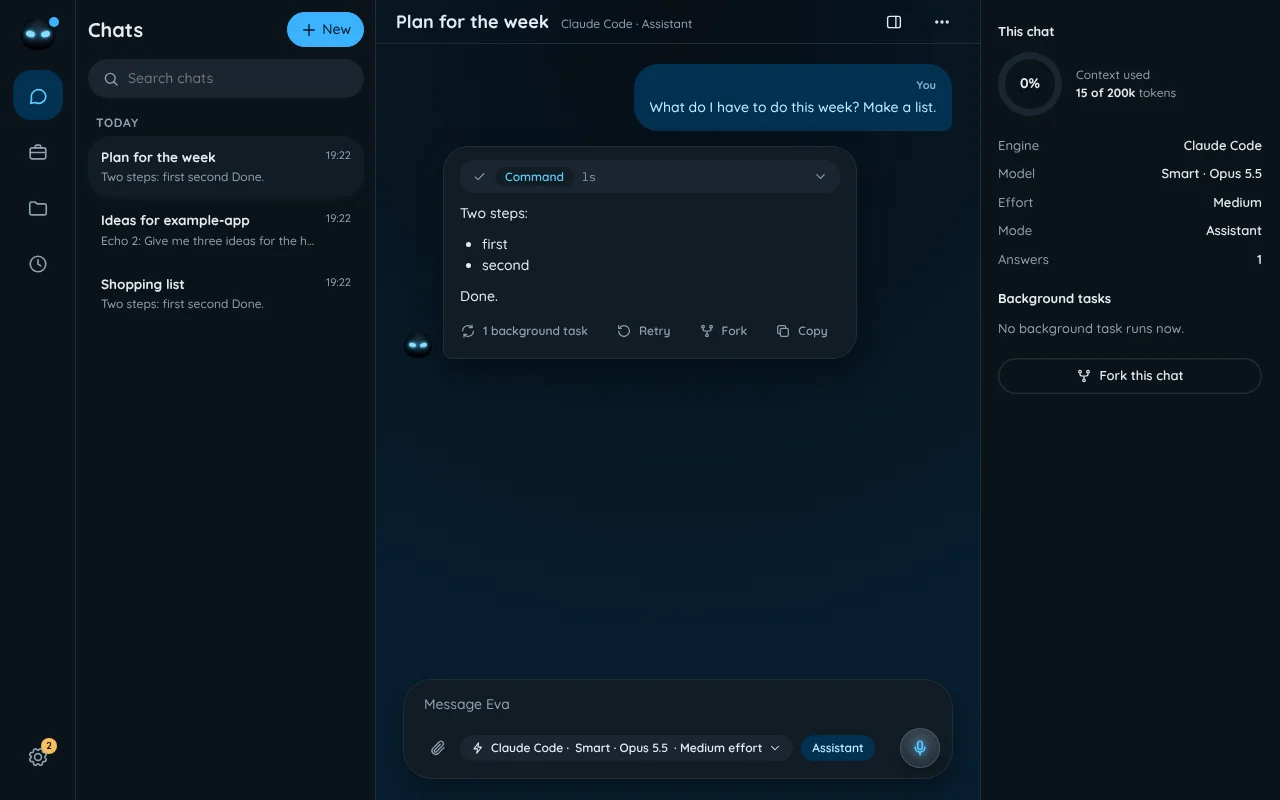
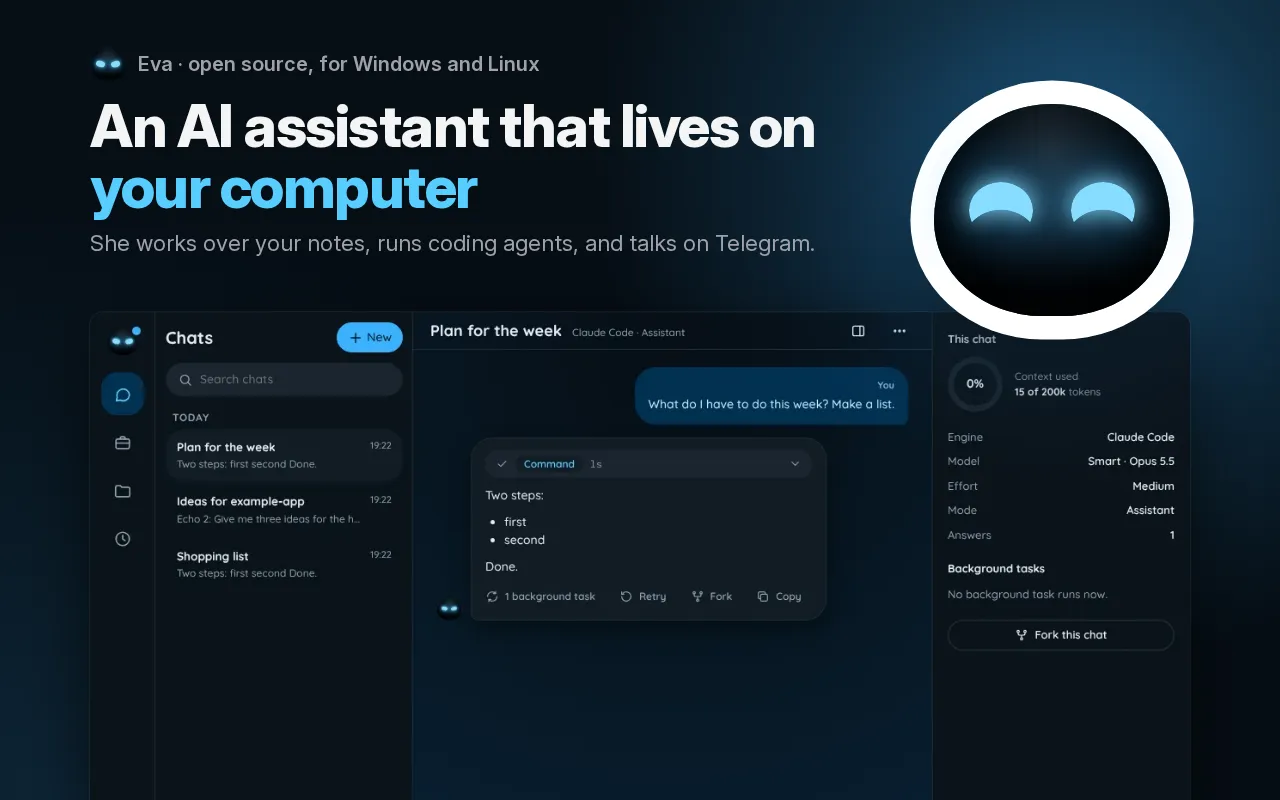
feat: give the Eva card a headline image with her face
The old card image was a plain screenshot of Eva's chat page. It had no
headline, and Eva's face was a few pixels in a corner. The new image
follows the form of the pskill and Work Board cards: a headline and one
line over a framed screenshot. Eva's face, the EVE visor with happy eyes
in a white ring, sits large over the top edge of the frame.

The face and the colours come from the Eva repository: the .mk and
.e-joy rules of visor.css, and the dark tokens of its design guide for
the default seed, EVE blue. The source page is in
resources/images/projects/sources/eva/, with the command that renders it.
The card now stretches its image, as the other headline cards do.

diff --git a/resources/images/projects/sources/eva/index.html b/resources/images/projects/sources/eva/index.html
@@ -1,0 +1,164 @@
+<!doctype html>
+<!--
+  Source of the portfolio image resources/images/projects/eva.webp.
+  Re-render it with:
+    bun scripts/captureProjectImage.js --page resources/images/projects/sources/eva/ --out resources/images/projects/eva.webp --width 1280 --height 800 --quality 80
+  screenshot.webp is docs/design/eve/screenshots/chat-computer-dark.webp from
+  github.com/guplem/eva (the chat page in dark mode, with example data).
+  The face is EVE's visor with the happy face: the .mk and .e-joy rules are a
+  copy of src/frontends/web/visor.css, and the colours are the dark tokens of
+  docs/design/eve/README.md for the default seed, EVE blue #2aa8ff, which is
+  oklch(0.707 0.164 245). The white shell ring is the one of the logo,
+  docs/design/eve/eva.svg.
+-->
+<html lang="en">
+  <head>
+    <meta charset="utf-8" />
+    <title>Eva portfolio image</title>
+    <style>
+      @font-face {
+        font-family: "Inter";
+        src: url("../../../../fonts/InterVariable.woff2") format("woff2");
+        font-weight: 100 900;
+      }
+      :root {
+        --h: 245;
+        --eye: oklch(0.87 0.13 var(--h));
+        --glow: oklch(0.74 0.164 var(--h));
+        --visor: oklch(0.26 0.02 var(--h));
+        --visor2: oklch(0.07 0.01 var(--h));
+        --shell: #ffffff;
+        --accent-ink: oklch(0.82 0.164 var(--h));
+      }
+      * {
+        box-sizing: border-box;
+        margin: 0;
+      }
+      html,
+      body {
+        width: 1280px;
+        height: 800px;
+        overflow: hidden;
+      }
+      body {
+        position: relative;
+        font-family: "Inter", "Segoe UI", sans-serif;
+        color: #f4f4f5;
+        background:
+          radial-gradient(circle at 86% 18%, oklch(0.74 0.164 var(--h) / 0.32), transparent 40%),
+          radial-gradient(circle at 4% 100%, oklch(0.74 0.164 var(--h) / 0.14), transparent 42%),
+          oklch(0.16 0.02 var(--h));
+      }
+      .caption {
+        position: absolute;
+        left: 90px;
+        right: 420px;
+        top: 48px;
+      }
+      .brand {
+        display: flex;
+        align-items: center;
+        gap: 12px;
+        font-size: 20px;
+        font-weight: 600;
+        color: #a1a1aa;
+      }
+      h1 {
+        margin-top: 16px;
+        font-size: 58px;
+        line-height: 1.05;
+        font-weight: 800;
+        letter-spacing: -1.5px;
+      }
+      .accent {
+        color: var(--accent-ink);
+      }
+      .sub {
+        margin-top: 12px;
+        font-size: 22px;
+        color: #a1a1aa;
+      }
+      /* The screenshot is 1280 px wide; the frame shows it at 1100 px. */
+      .shot {
+        position: absolute;
+        left: 50%;
+        bottom: 0;
+        width: 1100px;
+        height: 488px;
+        transform: translateX(-50%);
+        overflow: hidden;
+        border-radius: 14px 14px 0 0;
+        background: #0d1620 url("screenshot.webp") 0 0 / 1100px auto no-repeat;
+        box-shadow:
+          0 30px 80px rgba(0, 0, 0, 0.6),
+          0 0 0 1px rgba(255, 255, 255, 0.08);
+      }
+      /* The face sits over the top edge of the frame. */
+      .mk.hero {
+        position: absolute;
+        right: 110px;
+        top: 104px;
+        z-index: 1;
+        font-size: 236px;
+        box-shadow:
+          0 0 0 0.1em var(--shell),
+          0 0.12em 0.4em 0.02em oklch(0.05 0.02 var(--h) / 0.7),
+          0 0 0.6em 0.05em oklch(0.74 0.164 var(--h) / 0.35);
+      }
+
+      /* From here on: a copy of visor.css (.mk, .mk .eyes, .mk i, .mk.e-joy), with no motion. */
+      .mk {
+        font-size: 36px;
+        width: 1em;
+        height: 0.9em;
+        border-radius: 50% 50% 46% 46% / 55% 55% 45% 45%;
+        background: radial-gradient(ellipse at 50% 22%, var(--visor), var(--visor2) 72%);
+        display: inline-flex;
+        align-items: center;
+        justify-content: center;
+        gap: 0.16em;
+        flex: none;
+        position: relative;
+      }
+      .mk .eyes {
+        display: flex;
+        align-items: center;
+        gap: 0.16em;
+        filter: drop-shadow(0 0 0.05em var(--eye)) drop-shadow(0 0 0.14em var(--glow));
+      }
+      .mk i {
+        display: block;
+        position: relative;
+        width: 0.26em;
+        height: 0.16em;
+        border-radius: 50%;
+        background-color: var(--eye);
+      }
+      .mk i:first-child {
+        rotate: var(--r1, 14deg);
+      }
+      .mk i:last-child {
+        rotate: var(--r2, -14deg);
+      }
+      .mk.e-joy {
+        --r1: 0deg;
+        --r2: 0deg;
+      }
+      .mk.e-joy i {
+        height: 0.24em;
+        width: 0.27em;
+        -webkit-mask: radial-gradient(ellipse 60% 62% at 50% 110%, transparent 98%, #000 100%);
+        mask: radial-gradient(ellipse 60% 62% at 50% 110%, transparent 98%, #000 100%);
+      }
+    </style>
+  </head>
+  <body>
+    <div class="caption">
+      <div class="brand"><span class="mk s" aria-hidden="true"><span class="eyes"><i></i><i></i></span></span>Eva · open source, for Windows and Linux</div>
+      <h1>An AI assistant that lives on <span class="accent">your computer</span></h1>
+      <p class="sub">She works over your notes, runs coding agents, and talks on Telegram.</p>
+    </div>
+    <div class="shot" role="img" aria-label="Eva's chat page in dark mode"></div>
+    <div class="mk hero e-joy" role="img" aria-label="EVE's face, with happy eyes"><span class="eyes"><i></i><i></i></span></div>
+  </body>
+</html>
